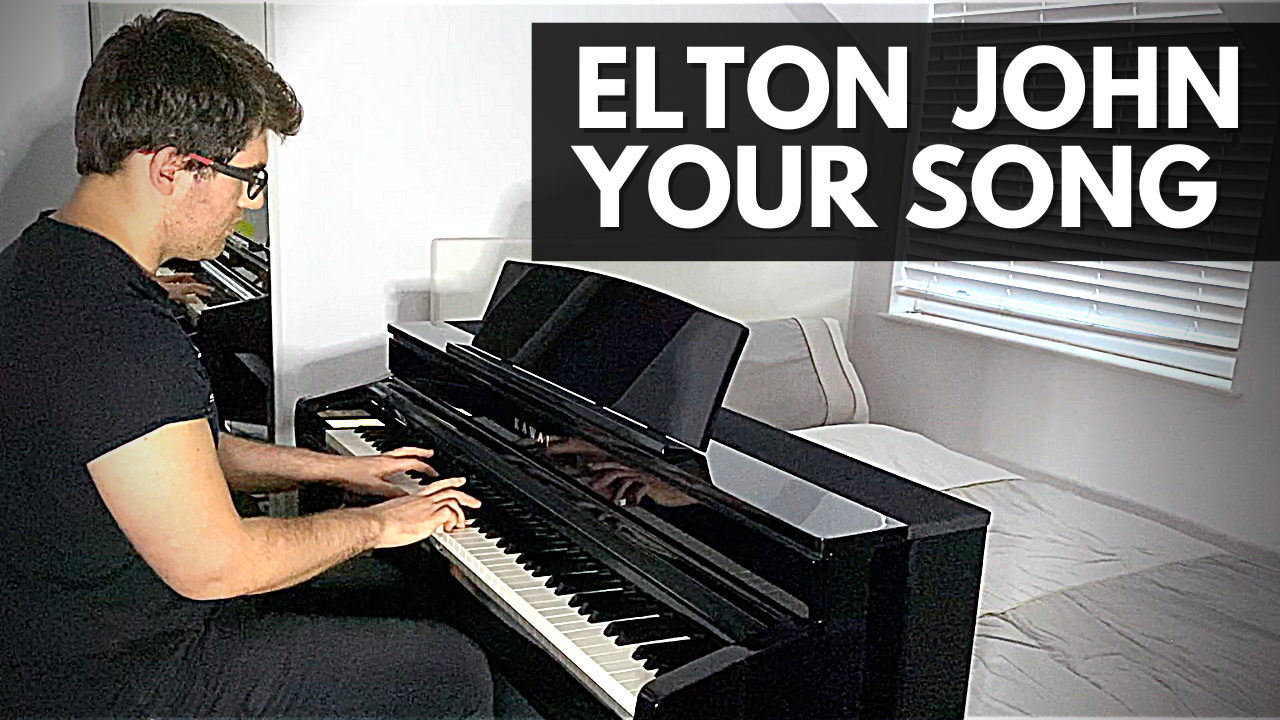
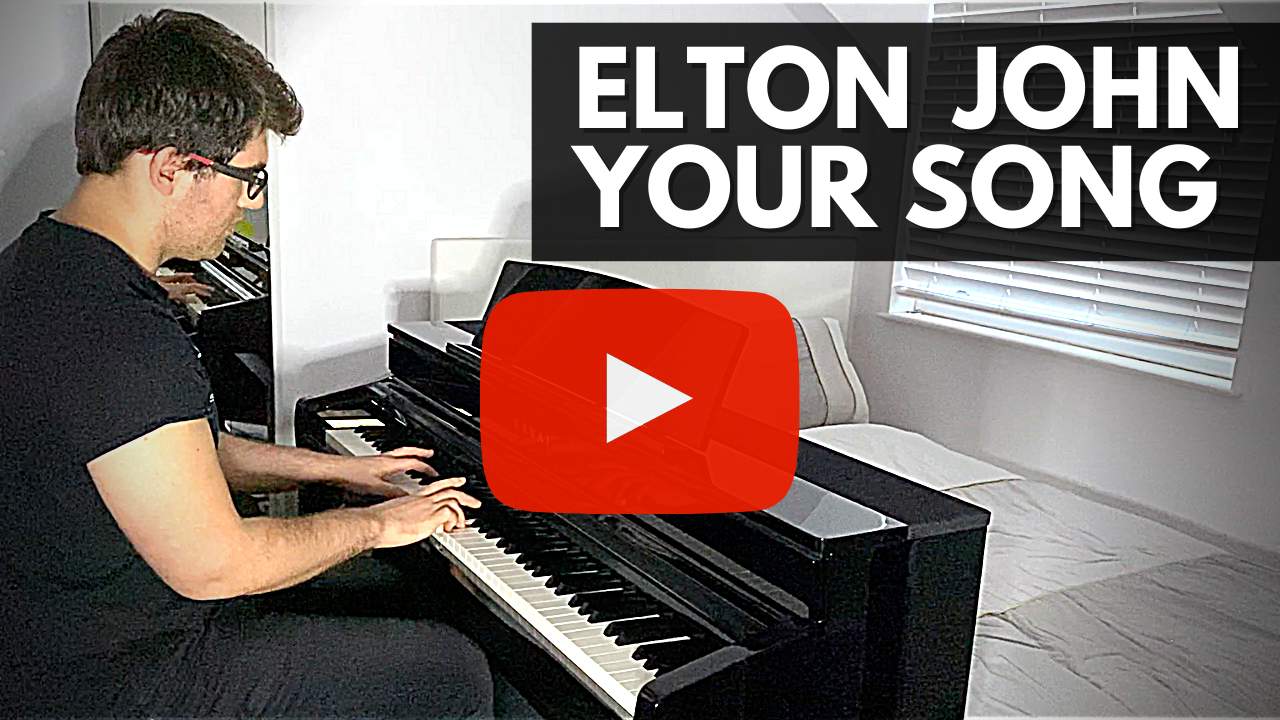
updated readme

Changed region(s): [[0.375, 0.3972, 0.625, 0.7333]]

diff --git a/README.md b/README.md
@@ -40,6 +40,12 @@ but cannot help but love Elton John’s music):
 
 <div align="center">
 
+**click to view**
+
+</div>
+
+<div align="center">
+
 [![Everything Is
 AWESOME](www/Elton.png)](https://www.youtube.com/embed/eTJiT6TXIcw "Elton John - Your Song")
 
